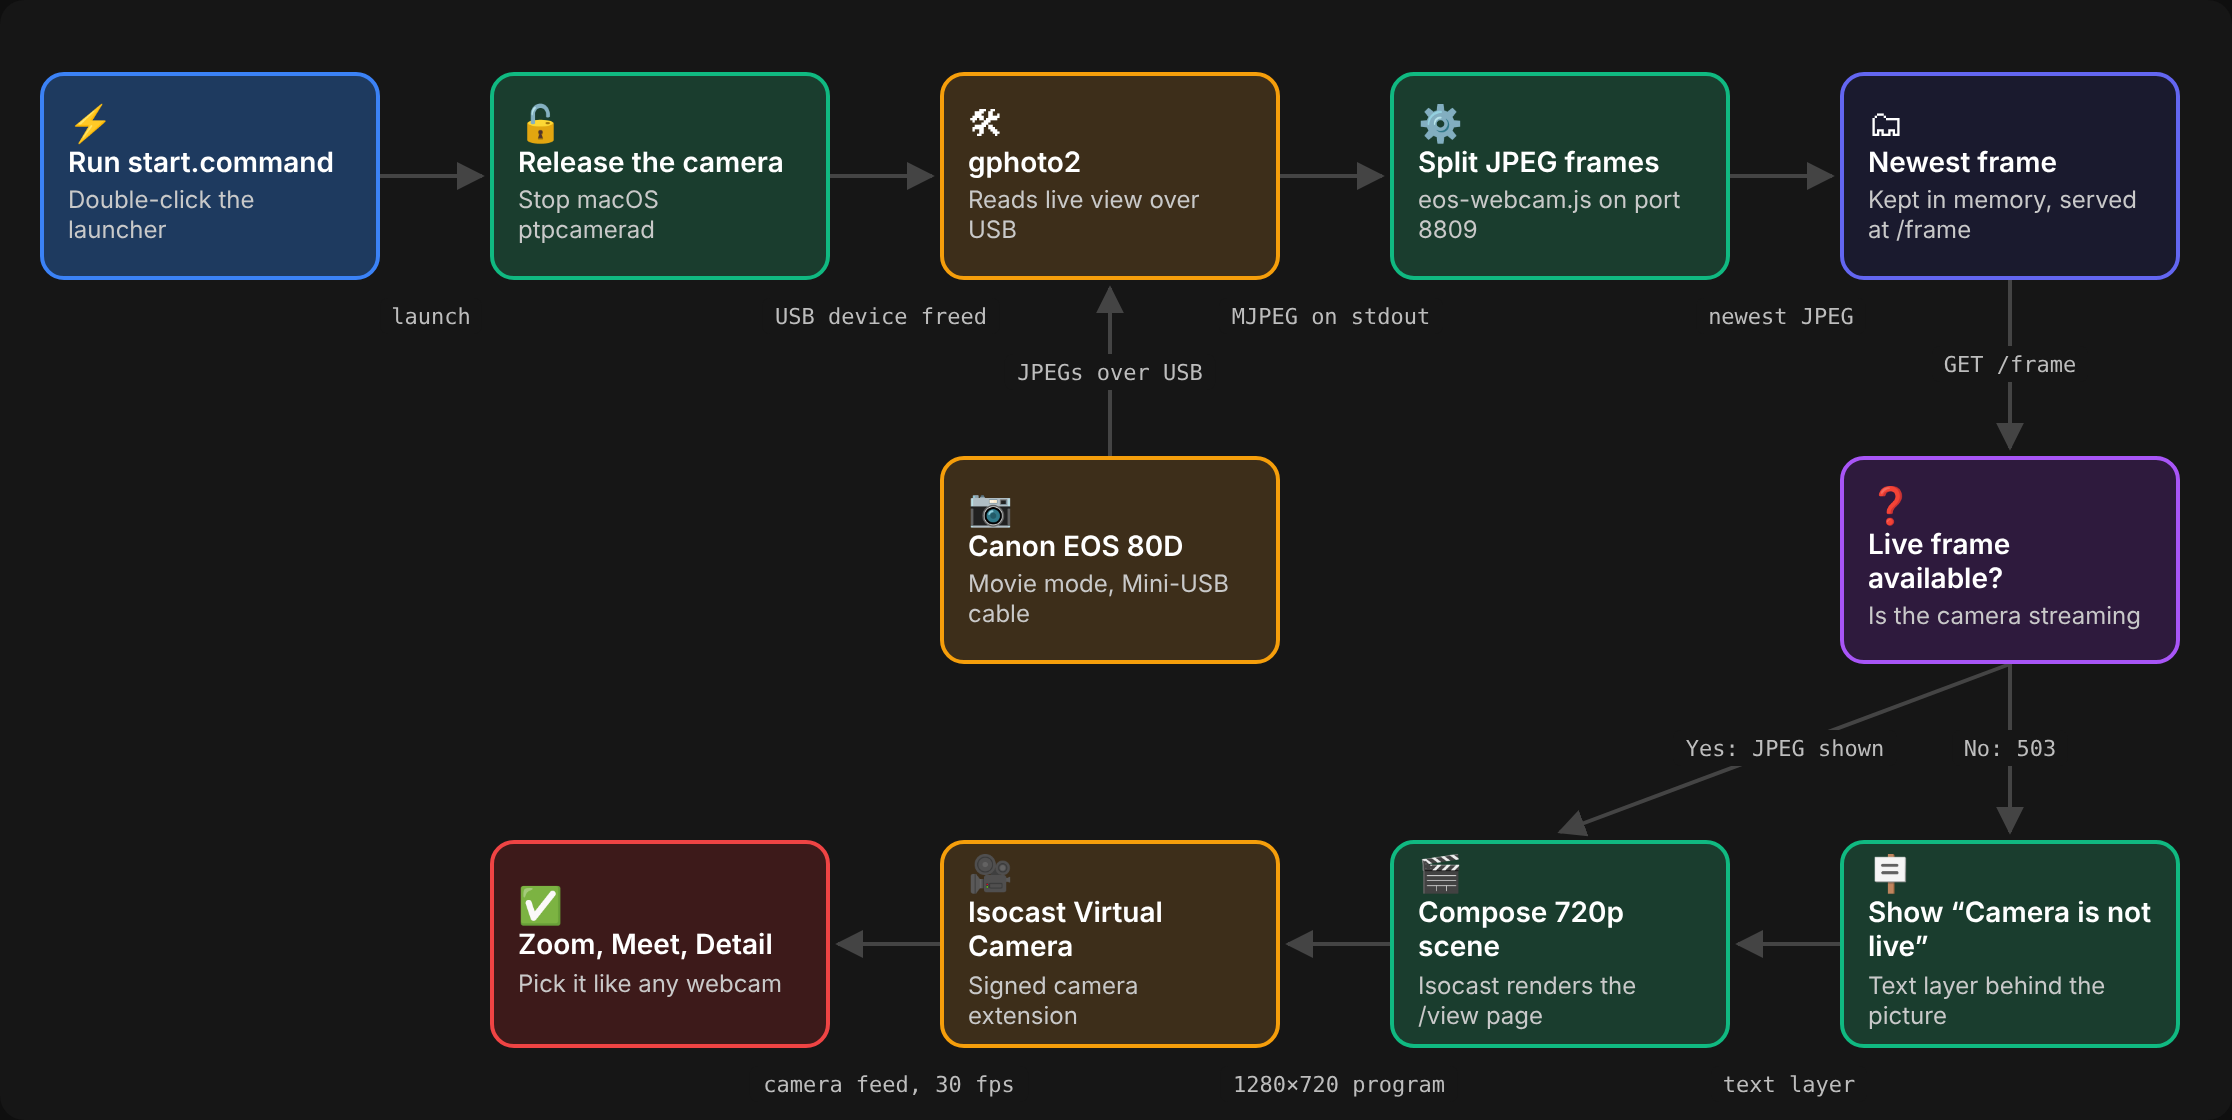
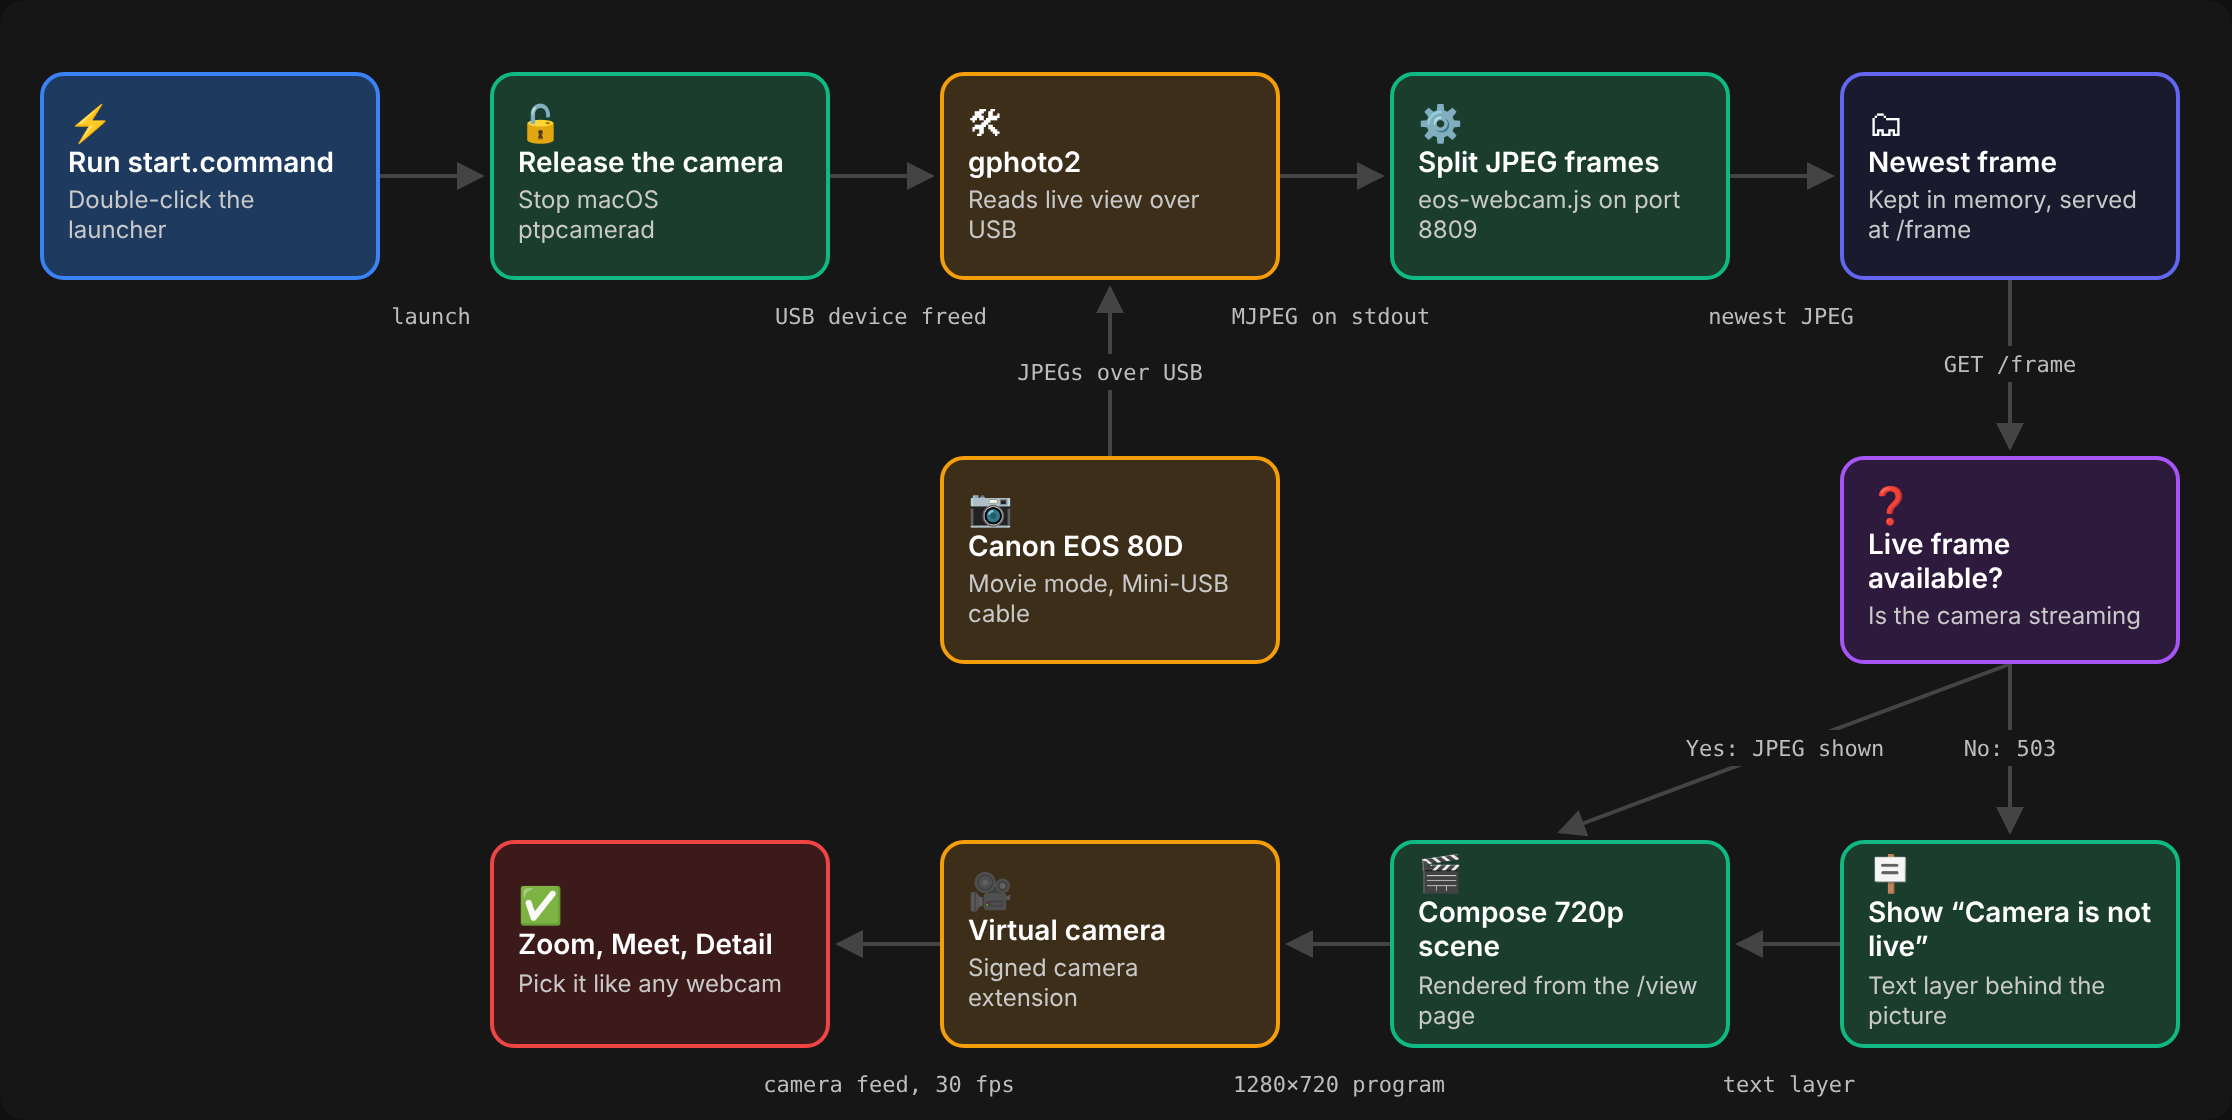
Describe the virtual camera generically; move Isocast to a Built on credit
Rename isocast/ to vcam/, reword scripts, README, docs page and diagram.
The real menu name (Isocast Virtual Camera) is kept where the user has
to pick or approve it, since the extension cannot be renamed.

Claude-Session: https://claude.ai/code/session_01BecR96eiBcRZHHJvWbxi93

Changed region(s): [[0.4328, 0.75, 0.5255, 0.9375], [0.6183, 0.875, 0.7728, 0.9375]]

diff --git a/docs/index.html b/docs/index.html
@@ -4,6 +4,7 @@
 <meta charset="utf-8">
 <meta name="viewport" content="width=device-width, initial-scale=1">
 <title>EOS Webcam One-Pager</title>
+<meta name="description" content="Use a Canon EOS 80D as a Mac webcam over the normal USB cable, without Canon's app: gphoto2, one Node script and a free virtual camera.">
 <link rel="preconnect" href="https://fonts.googleapis.com">
 <link href="https://fonts.googleapis.com/css2?family=Bricolage+Grotesque:opsz,wght@12..96,600;12..96,700&family=IBM+Plex+Mono:wght@400;500&family=IBM+Plex+Sans:wght@400;500;600&display=swap" rel="stylesheet">
 <style>
@@ -124,7 +125,7 @@ footer{color:var(--muted);font-size:14px;border-top:1px solid var(--line);paddin
     <div class="facts">
       <div><b>960×640</b><span>live view from the camera, about 15 fps</span></div>
       <div><b>1280×720</b><span>virtual camera output, 30 fps</span></div>
-      <div><b>≈1% CPU</b><span>Isocast engine on a Mac mini</span></div>
+      <div><b>≈1% CPU</b><span>virtual camera engine on a Mac mini</span></div>
       <div><b>0 windows</b><span>everything runs in the background</span></div>
     </div>
   </section>
@@ -132,7 +133,7 @@ footer{color:var(--muted);font-size:14px;border-top:1px solid var(--line);paddin
   <section class="col">
     <h2>The problem</h2>
     <p>The 80D sends its live view over Mini-USB, but macOS only lists a camera in call apps when a signed camera extension provides it. Canon's EOS Webcam Utility is that extension, and on current macOS it freezes.</p>
-    <p>Writing your own extension needs a paid Apple Developer account. The way around it is to borrow an extension that is already signed: <a href="https://github.com/anomalyco/isocast">Isocast</a>, an open-source recording app whose virtual camera can be driven from the command line.</p>
+    <p>Writing your own extension needs a paid Apple Developer account. The way around it is to borrow an extension that is already signed, from an open-source recording app whose virtual camera can be driven from the command line.</p>
   </section>
 
   <section class="wide wf" aria-labelledby="wf-title">
@@ -143,7 +144,7 @@ footer{color:var(--muted);font-size:14px;border-top:1px solid var(--line);paddin
         <div class="stage" id="stage"><svg id="edges" aria-hidden="true"></svg></div>
       </div>
     </div>
-    <div class="wf-info" id="info"><b>The short version.</b> gphoto2 pulls JPEG frames from the camera, the script keeps the newest one, Isocast renders it as a 720p picture and offers it to every app as “Isocast Virtual Camera”. When no frame arrives, a text card takes its place.</div>
+    <div class="wf-info" id="info"><b>The short version.</b> gphoto2 pulls JPEG frames from the camera, the script keeps the newest one, the virtual camera renders it as a 720p picture and offers it to every app. When no frame arrives, a text card takes its place.</div>
     <div class="legend">
       <span><i style="background:#3B82F6"></i>Trigger</span>
       <span><i style="background:#10B981"></i>Processing</span>
@@ -157,18 +158,18 @@ footer{color:var(--muted);font-size:14px;border-top:1px solid var(--line);paddin
   <section class="col">
     <h2>What you need</h2>
     <p>A Mac with Apple silicon and macOS 14 or later, Homebrew, and a Canon camera that gphoto2 can read live view from. It was built and tested with an EOS 80D on a Mac mini running macOS 26.5.</p>
-    <p>The installer adds Node, gphoto2 and Isocast 0.0.10 if they are missing. Isocast is downloaded from its GitHub release and checked against a known checksum before it is copied to Applications.</p>
+    <p>The installer adds Node, gphoto2 and the virtual camera engine if they are missing. The engine is the open-source app Isocast 0.0.10, downloaded from its GitHub release and checked against a known checksum before it is copied to Applications.</p>
   </section>
 
   <section class="col">
     <h2>Setup</h2>
     <ol class="steps">
-      <li><div>Unzip <code>EOS-Webcam.zip</code> anywhere.</div></li>
+      <li><div>Download the package from <a href="https://github.com/kotyzap/eos-webcam">github.com/kotyzap/eos-webcam</a> (Code → Download ZIP) and unzip it anywhere.</div></li>
       <li><div>Double-click <code>install.command</code>. If macOS refuses, right-click it and choose Open.</div></li>
       <li><div>Connect the camera by USB, switch it on in movie mode and set Auto power off to Disable.</div></li>
       <li><div>Double-click <code>start.command</code>.</div></li>
-      <li><div>The first time only, allow <b>Isocast Virtual Camera</b> in System Settings → General → Login Items &amp; Extensions → Camera Extensions.</div></li>
-      <li><div>Choose <b>Isocast Virtual Camera</b> as the camera in your call app.</div></li>
+      <li><div>The first time only, allow the virtual camera in System Settings → General → Login Items &amp; Extensions → Camera Extensions. macOS lists it there as <i>Isocast Virtual Camera</i>.</div></li>
+      <li><div>Choose that same camera in your call app.</div></li>
     </ol>
   </section>
 
@@ -180,7 +181,7 @@ footer{color:var(--muted);font-size:14px;border-top:1px solid var(--line);paddin
         <tbody>
           <tr><td><code>start.command</code></td><td>Starts the camera stream and the virtual camera.</td></tr>
           <tr><td><code>stop.command</code></td><td>Stops the stream and frees the camera for other apps. Call apps then show “Camera is not live”.</td></tr>
-          <tr><td><code>quit.command</code></td><td>Stops the stream and shuts Isocast down completely.</td></tr>
+          <tr><td><code>quit.command</code></td><td>Stops the stream and shuts the virtual camera down completely.</td></tr>
         </tbody>
       </table>
     </div>
@@ -190,11 +191,11 @@ footer{color:var(--muted);font-size:14px;border-top:1px solid var(--line);paddin
   <section class="col">
     <h2>Limits</h2>
     <p>The picture is the camera's USB live view, so it tops out at 960×640 and about 15 fps. It is cropped to 16:9 and scaled to 720p. For full 1080p, the camera's Mini-HDMI output with an HDMI capture dongle is the better route and needs no software at all.</p>
-    <p>Isocast calls itself alpha software, and it cannot open a network stream directly yet. That is why the script serves a bare page at <code>/view</code>, which Isocast renders as a web page source.</p>
-    <p>If Isocast breaks after an update, the package also carries an OBS route: <code>install-obs.command</code> once, then <code>start-obs.command</code> and <code>stop-obs.command</code>, with the camera named “OBS Virtual Camera”.</p>
+    <p>The virtual camera engine is alpha software, and it cannot open a network stream directly yet. That is why the script serves a bare page at <code>/view</code>, which the engine renders as a web page source.</p>
+    <p>If the virtual camera breaks after an update, the package also carries an OBS route: <code>install-obs.command</code> once, then <code>start-obs.command</code> and <code>stop-obs.command</code>, with the camera named “OBS Virtual Camera”.</p>
   </section>
 
-  <footer class="col">Built by Pavel Kotyza, <a href="https://www.4xs.dev">4xs.dev</a>. Not affiliated with Canon. Uses gphoto2 and Isocast, both open source.</footer>
+  <footer class="col">Source and downloads: <a href="https://github.com/kotyzap/eos-webcam">github.com/kotyzap/eos-webcam</a>, MIT licence. Built by Pavel Kotyza, <a href="https://www.4xs.dev">4xs.dev</a>. Not affiliated with Canon. Built on gphoto2 and Isocast, both open source.</footer>
 </div>
 
 <script>
@@ -214,7 +215,7 @@ footer{color:var(--muted);font-size:14px;border-top:1px solid var(--line);paddin
   var COLORS={trigger:'#3B82F6',process:'#10B981',tool:'#F59E0B',output:'#EF4444',store:'#6366F1',decision:'#A855F7'};
   var nodes=[
     {id:'start',t:'trigger',x:20,y:36,ic:'⚡',lb:'Run start.command',st:'Double-click the launcher',
-     d:'Starts the Node script, then tells Isocast to start its engine and its virtual camera. No window opens.'},
+     d:'Starts the Node script, then starts the virtual camera engine. No window opens.'},
     {id:'free',t:'process',x:245,y:36,ic:'🔓',lb:'Release the camera',st:'Stop macOS ptpcamerad',
      d:'macOS grabs every connected camera with its ptpcamerad service. The script stops that service so gphoto2 can claim the USB device. macOS restarts it later by itself.'},
     {id:'gphoto',t:'tool',x:470,y:36,ic:'🛠',lb:'gphoto2',st:'Reads live view over USB',
@@ -227,14 +228,14 @@ footer{color:var(--muted);font-size:14px;border-top:1px solid var(--line);paddin
      d:'The camera sends its live view as 960×640 JPEG images over the normal USB data cable. Auto power off must be disabled or it switches off mid-call.'},
     {id:'live',t:'decision',x:920,y:228,ic:'❓',lb:'Live frame available?',st:'Is the camera streaming',
      d:'While gphoto2 runs, /frame answers with a JPEG. When the camera is stopped, off or unplugged, it answers 503 and the /view page hides its picture.'},
-    {id:'compose',t:'process',x:695,y:420,ic:'🎬',lb:'Compose 720p scene',st:'Isocast renders the /view page',
-     d:'Isocast loads http://127.0.0.1:8809/view as a web page source at 1280×720 and 30 fps. The page is transparent wherever it has no picture, so the layer behind it shows through.'},
+    {id:'compose',t:'process',x:695,y:420,ic:'🎬',lb:'Compose 720p scene',st:'Rendered from the /view page',
+     d:'The engine loads http://127.0.0.1:8809/view as a web page source at 1280×720 and 30 fps. The page is transparent wherever it has no picture, so the layer behind it shows through.'},
     {id:'card',t:'process',x:920,y:420,ic:'🪧',lb:'Show “Camera is not live”',st:'Text layer behind the picture',
-     d:'A text source in the Isocast scene, placed behind the camera picture. Callers see it instead of a frozen or black image whenever the camera is not streaming.'},
-    {id:'vcam',t:'tool',x:470,y:420,ic:'🎥',lb:'Isocast Virtual Camera',st:'Signed camera extension',
-     d:'Isocast’s camera extension is signed and notarized, which is what lets macOS list it as a camera. You approve it once in System Settings.'},
+     d:'A text layer in the scene, placed behind the camera picture. Callers see it instead of a frozen or black image whenever the camera is not streaming.'},
+    {id:'vcam',t:'tool',x:470,y:420,ic:'🎥',lb:'Virtual camera',st:'Signed camera extension',
+     d:'The camera extension comes from the open-source Isocast project and is signed and notarized, which is what lets macOS list it as a camera. You approve it once in System Settings, where it appears as “Isocast Virtual Camera”.'},
     {id:'apps',t:'output',x:245,y:420,ic:'✅',lb:'Zoom, Meet, Detail',st:'Pick it like any webcam',
-     d:'Any app with a camera menu can select “Isocast Virtual Camera”. Restart the app if it was open before the camera first appeared.'}
+     d:'Any app with a camera menu can select the virtual camera. Restart the app if it was open before the camera first appeared.'}
   ];
   var edges=[
     ['start','free','launch'],

diff --git a/README.md b/README.md
@@ -16,20 +16,20 @@ Canon's EOS Webcam Utility freezes on macOS 26. This project replaces it with on
 | | |
 |---|---|
 | Source picture | 960×640 at about 15 fps (the camera's USB live view) |
-| Virtual camera | 1280×720 at 30 fps, named **Isocast Virtual Camera** |
-| CPU | about 1% for the Isocast engine on a Mac mini |
+| Virtual camera | 1280×720 at 30 fps |
+| CPU | about 1% on a Mac mini |
 | Tested with | EOS 80D, Mac mini (Apple silicon), macOS 26.5 |
 
 ## How it works
 
-![Workflow: camera over USB, gphoto2, eos-webcam.js, Isocast, call apps](docs/img/workflow.png)
+![Workflow: camera over USB, gphoto2, eos-webcam.js, virtual camera, call apps](docs/img/workflow.png)
 
 1. **gphoto2** reads the camera's live view over USB as a stream of JPEG frames.
 2. **eos-webcam.js** splits that stream into frames and serves the newest one on `http://127.0.0.1:8809`.
-3. **[Isocast](https://github.com/anomalyco/isocast)** renders the script's bare `/view` page as a web page source and feeds it to its signed virtual camera.
+3. **The virtual camera** renders the script's bare `/view` page at 720p and offers it to every app on the Mac.
 4. When no frame arrives (camera stopped, off or unplugged), a **"Camera is not live"** card shows instead of a frozen picture.
 
-macOS only lists a camera in call apps when a signed camera extension provides it, and writing your own needs a paid Apple Developer account. Borrowing Isocast's extension is what keeps this free.
+macOS only lists a camera in call apps when a signed camera extension provides it, and writing your own needs a paid Apple Developer account. Borrowing an existing signed, open-source extension is what keeps this free (see [Built on](#built-on)).
 
 ## Requirements
 
@@ -37,7 +37,7 @@ macOS only lists a camera in call apps when a signed camera extension provides i
 - [Homebrew](https://brew.sh)
 - A Canon camera that gphoto2 can read live view from, and its USB cable
 
-`install.command` adds Node, gphoto2 and Isocast 0.0.10 if they are missing. Isocast is downloaded from its GitHub release and checked against a known checksum.
+`install.command` adds Node, gphoto2 and the virtual camera engine if they are missing. See [Built on](#built-on) for exactly what gets installed.
 
 ## Install
 
@@ -45,8 +45,8 @@ macOS only lists a camera in call apps when a signed camera extension provides i
 2. Double-click `install.command`. If macOS refuses to open it, right-click it and choose **Open**.
 3. Connect the camera by USB, switch it on in movie mode and set **Auto power off** to **Disable**.
 4. Double-click `start.command`.
-5. First time only: allow **Isocast Virtual Camera** in System Settings > General > Login Items & Extensions > Camera Extensions.
-6. Choose **Isocast Virtual Camera** as the camera in your call app.
+5. First time only: allow the virtual camera in System Settings > General > Login Items & Extensions > Camera Extensions. macOS lists it there as *Isocast Virtual Camera*.
+6. Choose that same camera in your call app.
 
 ## Daily use
 
@@ -54,7 +54,7 @@ macOS only lists a camera in call apps when a signed camera extension provides i
 |---|---|
 | `start.command` | Starts the camera stream and the virtual camera. |
 | `stop.command` | Stops the stream and frees the camera for other apps. Call apps then show "Camera is not live". |
-| `quit.command` | Stops the stream and shuts Isocast down completely. |
+| `quit.command` | Stops the stream and shuts the virtual camera down completely. |
 
 A preview with Start and Stop buttons is at `http://127.0.0.1:8809` while the script runs.
 
@@ -62,30 +62,34 @@ A preview with Start and Stop buttons is at `http://127.0.0.1:8809` while the sc
 
 - **No picture, only the "Camera is not live" card.** The camera is off, asleep or held by another program. Close EOS Utility, Cascable and similar apps, then run `start.command` again.
 - **The camera switches off mid-call.** Set Auto power off to Disable and use a dummy-battery AC adapter for long sessions.
-- **"Isocast Virtual Camera" is missing from the app's camera list.** Approve the extension in System Settings (step 5), then restart the call app.
-- **To change the card text,** edit `text = "Camera is not live"` in `isocast/setup.toml` and re-apply the setup (see `isocast apply --help` for the revision argument).
+- **The virtual camera is missing from the app's camera list.** Approve the extension in System Settings (step 5), then restart the call app.
+- **To change the card text,** edit `text = "Camera is not live"` in `vcam/setup.toml` and re-apply the setup (see `isocast apply --help` for the revision argument).
 
 ## Limits
 
 - The picture is the camera's USB live view: 960×640 at about 15 fps, cropped to 16:9 and scaled to 720p. For full 1080p, use the camera's Mini-HDMI output with an HDMI capture dongle instead; that needs no software at all.
-- Isocast is alpha software and cannot open a network stream directly yet, which is why the script serves the `/view` page for it.
+- The virtual camera engine is alpha software and cannot open a network stream directly yet, which is why the script serves the `/view` page for it.
 - `install.command` has not been tested on a second Mac yet.
 
 ## OBS fallback
 
-If Isocast breaks after an update, the earlier OBS route is included: run `install-obs.command` once (with OBS closed), then use `start-obs.command` and `stop-obs.command`. The camera is then named **OBS Virtual Camera**.
+If the virtual camera breaks after an update, the earlier OBS route is included: run `install-obs.command` once (with OBS closed), then use `start-obs.command` and `stop-obs.command`. The camera is then named **OBS Virtual Camera**.
 
 ## What's in the repo
 
 | Path | Purpose |
 |---|---|
 | `eos-webcam.js` | The Node script, no dependencies. Endpoints: `/` preview, `/view`, `/frame`, `/stream`, `/api/start`, `/api/stop`, `/api/status`. |
-| `isocast/setup.toml` | Isocast scene: the `/view` page over the text card, sent to the virtual camera. |
+| `vcam/setup.toml` | Virtual camera scene: the `/view` page over the text card. |
 | `obs/` | OBS scene collection and profile for the fallback route. |
 | `docs/` | The explainer page served by GitHub Pages. |
+
+## Built on
+
+The virtual camera is provided by [Isocast](https://github.com/anomalyco/isocast) 0.0.10, an open-source recording app. `install.command` downloads it from its GitHub release, checks it against a known checksum and copies it to Applications. Its camera extension cannot be renamed, so macOS and call apps list the camera as *Isocast Virtual Camera*. The camera stream is read with [gphoto2](http://www.gphoto.org).
 
 ## Licence
 
 MIT, see [`LICENSE`](LICENSE). Built by Pavel Kotyza &lt;kotyza@gmail.com&gt;, [4xs.dev](https://www.4xs.dev).
 
-Not affiliated with Canon. Uses [gphoto2](http://www.gphoto.org) and [Isocast](https://github.com/anomalyco/isocast), both open source.
+Not affiliated with Canon.
